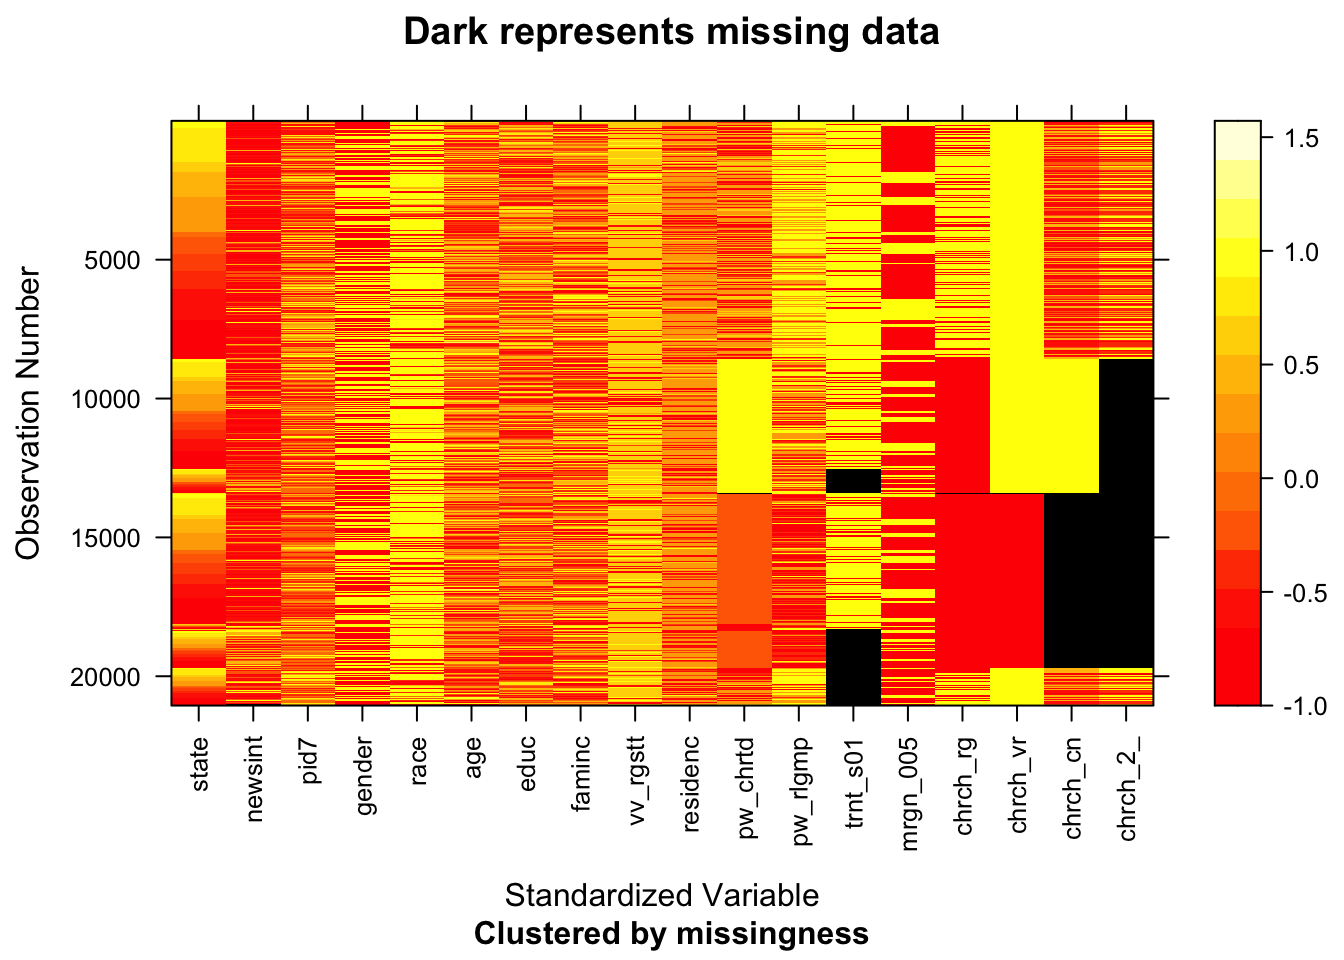
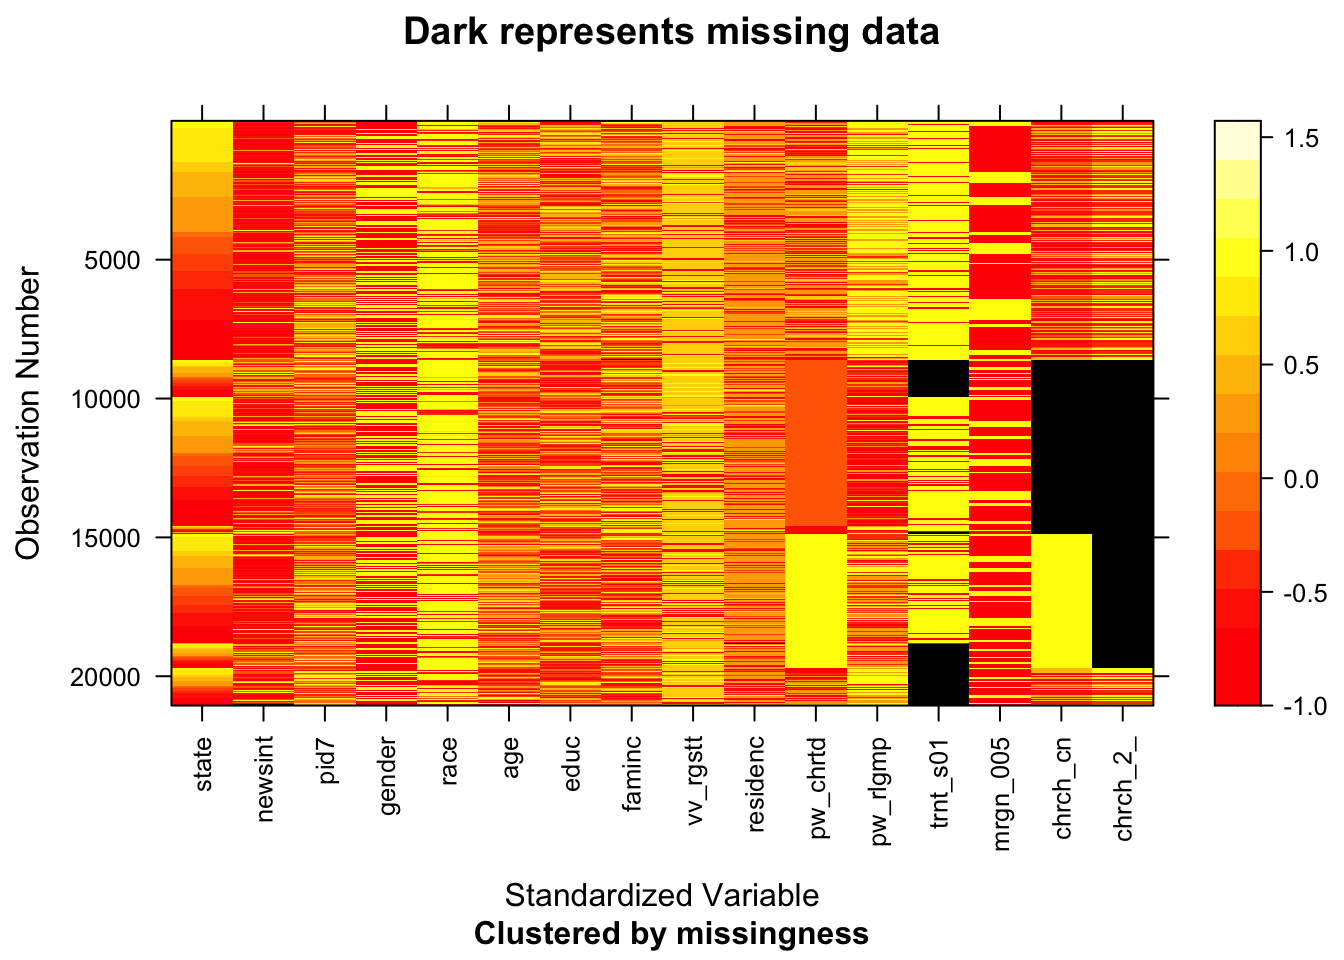
update

Changed region(s): [[0.125, 0.125, 0.8438, 0.9062], [0.125, 0.75, 0.1562, 0.8438], [0.8125, 0.7188, 0.8438, 0.75]]

diff --git a/docs/missing-values.html b/docs/missing-values.html
@@ -105,81 +105,14 @@
 <div id="missing-values" class="section level1">
 <h1><span class="header-section-number">Chapter 4</span> Missing values</h1>
 <p>My dataset is quite large, so for the purpose of visualization, I restrict the analysis to 2016, and assume that the pattern will be similar for years 2012 and 2008. Moreover, I deleted the variables which were derived from other variables, as their missing pattern would be exactly the same. I also deleted variables whose missingness is not meaningful (e.g. variable for additional notes, which is (a) optional and (b) text data).</p>
-<pre><code>## NOTE: The following pairs of variables appear to have the same missingness pattern.
+<pre><code>## NOTE: In the following pairs of variables, the missingness pattern of the first is a subset of the second.
 ##  Please verify whether they are in fact logically distinct variables.
-##      [,1]         [,2]         
-## [1,] &quot;church_reg&quot; &quot;church_ever&quot;</code></pre>
-<p><img src="finalproj_files/figure-html/unnamed-chunk-7-1.png" width="672" /></p>
-<pre><code>##                                                                            nothing 
-##                                                                               8581 
-##                                                                     turnout_self01 
-##                                                                               1303 
-##                                                                  church_cont2_freq 
-##                                                                               3946 
-##                                                                            newsint 
-##                                                                                 11 
-##                                                                             faminc 
-##                                                                                  3 
-##                                                                       pew_religimp 
-##                                                                                  4 
-##                                                                               pid7 
-##                                                                                 12 
-##                                                                          residence 
-##                                                                                 15 
-##                                                     church_cont, church_cont2_freq 
-##                                                                               4666 
-##                                                  turnout_self01, church_cont2_freq 
-##                                                                                869 
-##                                                            newsint, turnout_self01 
-##                                                                                  4 
-##                                                       residence, church_cont2_freq 
-##                                                                                  6 
-##                                                    pew_religimp, church_cont2_freq 
-##                                                                                  3 
-##                                                                    pid7, residence 
-##                                                                                  1 
-##                                                            pid7, church_cont2_freq 
-##                                                                                  5 
-##                                                         newsint, church_cont2_freq 
-##                                                                                  2 
-##                                                          residence, turnout_self01 
-##                                                                                  2 
-##                                                          faminc, church_cont2_freq 
-##                                                                                  1 
-##                                        pew_churatd, church_cont, church_cont2_freq 
-##                                                                                193 
-##                                     turnout_self01, church_cont, church_cont2_freq 
-##                                                                               1318 
-##                                          residence, church_cont, church_cont2_freq 
-##                                                                                  6 
-##                                         newsint, turnout_self01, church_cont2_freq 
-##                                                                                  3 
-##                                               pid7, church_cont, church_cont2_freq 
-##                                                                                  3 
-##                                       pew_religimp, church_cont, church_cont2_freq 
-##                                                                                  2 
-##                                            pid7, turnout_self01, church_cont2_freq 
-##                                                                                  1 
-##                                          faminc, turnout_self01, church_cont2_freq 
-##                                                                                  1 
-##                                                 pid7, pew_religimp, turnout_self01 
-##                                                                                  1 
-##                        pew_churatd, turnout_self01, church_cont, church_cont2_freq 
-##                                                                                 77 
-##                             residence, pew_churatd, church_cont, church_cont2_freq 
-##                                                                                  2 
-##                                  pid7, pew_churatd, church_cont, church_cont2_freq 
-##                                                                                  1 
-##                             faminc, turnout_self01, church_cont, church_cont2_freq 
-##                                                                                  1 
-##                                    pid7, residence, church_cont, church_cont2_freq 
-##                                                                                  1 
-##               pew_churatd, church_reg, church_ever, church_cont, church_cont2_freq 
-##                                                                                  9 
-## pew_churatd, pew_religimp, church_reg, church_ever, church_cont, church_cont2_freq 
-##                                                                                  2</code></pre>
-<p><img src="finalproj_files/figure-html/unnamed-chunk-7-2.png" width="672" /></p>
-<p>As one can see immediately from the charts, the only variable with a substantial number of missing values is the <em>turnout_self01</em>, i.e. self-reported turnout, which is the dependent variable of interest. Out of the 5,783 observations, 916 are missing this value. The variable that has the next highest number of values is <em>pid7</em> i.e. political affiliation using 7 scales, with only 9 missing values. There are 4 additional variables with missing values (newint, residence, faminc) but they are in the single digits and given that these constitute a neglibile share of the sample, it would be easiest to drop these values from the analysis.</p>
+##      [,1]          [,2]               
+## [1,] &quot;pew_churatd&quot; &quot;church_cont&quot;      
+## [2,] &quot;pew_churatd&quot; &quot;church_cont2_freq&quot;
+## [3,] &quot;church_cont&quot; &quot;church_cont2_freq&quot;</code></pre>
+<p><img src="finalproj_files/figure-html/unnamed-chunk-7-1.png" width="672" /><img src="finalproj_files/figure-html/unnamed-chunk-7-2.png" width="672" /></p>
+<p>As one can see immediately from the charts, the only variable with a substantial number of missing values is the <em>turnout_self01</em>, i.e. self-reported turnout, which is the dependent variable of interest. The other variables with some missing data constitute such a small share of the sample that their aggregate measure barely appear on the plot. Given their negligible share, it would be easiest to drop these values from the analysis.</p>
 <p>As for the missing turnout variable, given that this is the dependent variable of interest, I wouldn’t feel comfortable imputing the value. As a result, I will drop the NAs by default in all illustrations unless otherwise indicated.</p>
 
 </div>

diff --git a/docs/interactive-component.html b/docs/interactive-component.html
@@ -104,7 +104,8 @@
             <section class="normal" id="section-">
 <div id="interactive-component" class="section level1">
 <h1><span class="header-section-number">Chapter 6</span> Interactive component</h1>
-<p><a href="https://vizhub.com/mandu427/6cc35a21157e482b8f354a65ca5b6c2d?edit=files&amp;file=index.html&amp;line" class="uri">https://vizhub.com/mandu427/6cc35a21157e482b8f354a65ca5b6c2d?edit=files&amp;file=index.html&amp;line</a></p>
+<p>For the interactive component, I build a d3 object where the over-reporting rate can be cmpared across years. In the main results sections I mainly avoided the issue of presenting data over time and aggregated all data points across years. The assumption there was that the aggregate pattern would be representative of the overall pattern. We won’t know if that assumption holds, unless we can verify this to be true. To illustrate the point, I create a plot that compares over-reporting by gender. The user can choose the year to view. The default data is from 2008.</p>
+<p><a href="https://vizhub.com/mandu427/6cc35a21157e482b8f354a65ca5b6c2d?edit=files&amp;file=index.html&amp;line&amp;mode=full" class="uri">https://vizhub.com/mandu427/6cc35a21157e482b8f354a65ca5b6c2d?edit=files&amp;file=index.html&amp;line&amp;mode=full</a></p>
 
 </div>
             </section>
